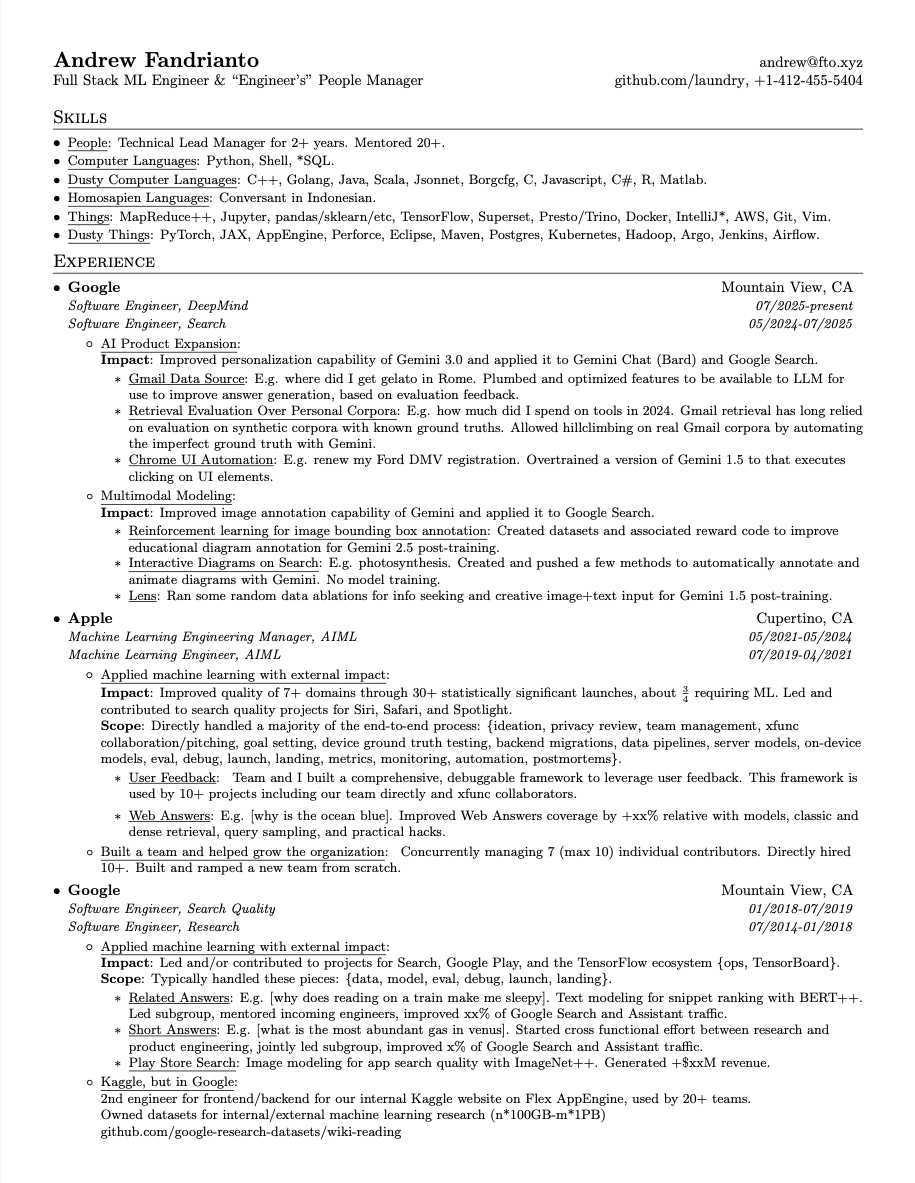
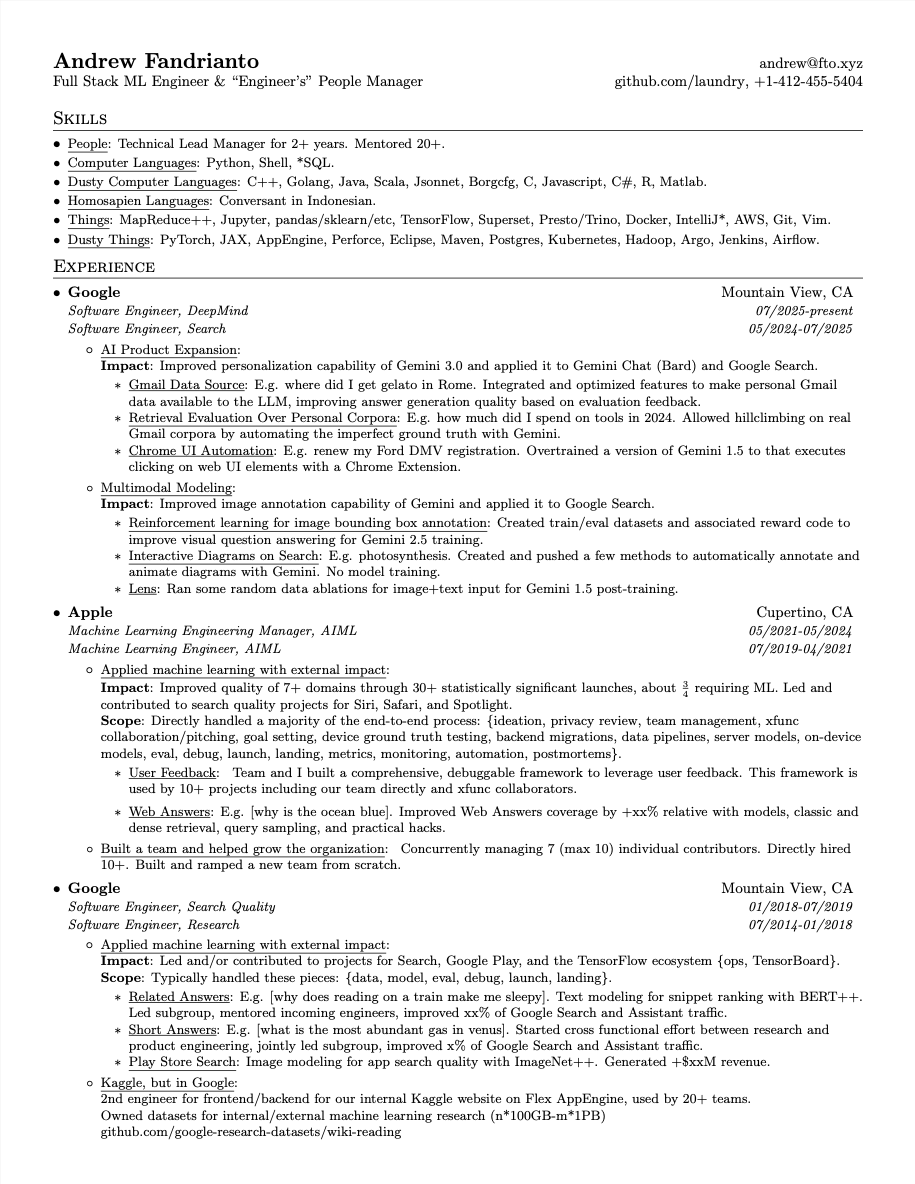
Update for K2

Changed region(s): [[0.0612, 0.0304, 0.9486, 0.9738], [0.8262, 0.0304, 0.9486, 0.0913], [0.6732, 0.0609, 0.7956, 0.0913]]

diff --git a/fto.tex b/fto.tex
@@ -110,13 +110,13 @@
         \resumeSubItem{People}
             {Technical Lead Manager for 2+ years. Mentored 20+.}
         \resumeSubItem{Computer Languages}
-            {Python, Shell, *SQL.}
+            {C++, Python, Shell, *SQL.}
         \resumeSubItem{Dusty Computer Languages}
-            {C++, Golang, Java, Scala, Jsonnet, Borgcfg, C, Javascript, C\#, R, Matlab.}
+            {Kotlin, Golang, Java, Scala, Jsonnet, Borgcfg, C, Javascript, C\#, R, Matlab.}
         \resumeSubItem{Homosapien Languages}
             {Conversant in Indonesian.}
         \resumeSubItem{Things}
-            {MapReduce++, Jupyter, pandas/sklearn/etc, TensorFlow, Superset, Presto/Trino, Docker, IntelliJ*, AWS, Git, Vim.}
+            {google3, MapReduce++, Jupyter, pandas/sklearn/etc, TensorFlow, Superset, Presto/Trino, Docker, IntelliJ*, AWS, Git, Vim.}
         \resumeSubItem{Dusty Things}
             {PyTorch, JAX, AppEngine, Perforce, Eclipse, Maven, Postgres, Kubernetes, Hadoop, Argo, Jenkins, Airflow.}
     \resumeSubHeadingListEnd
